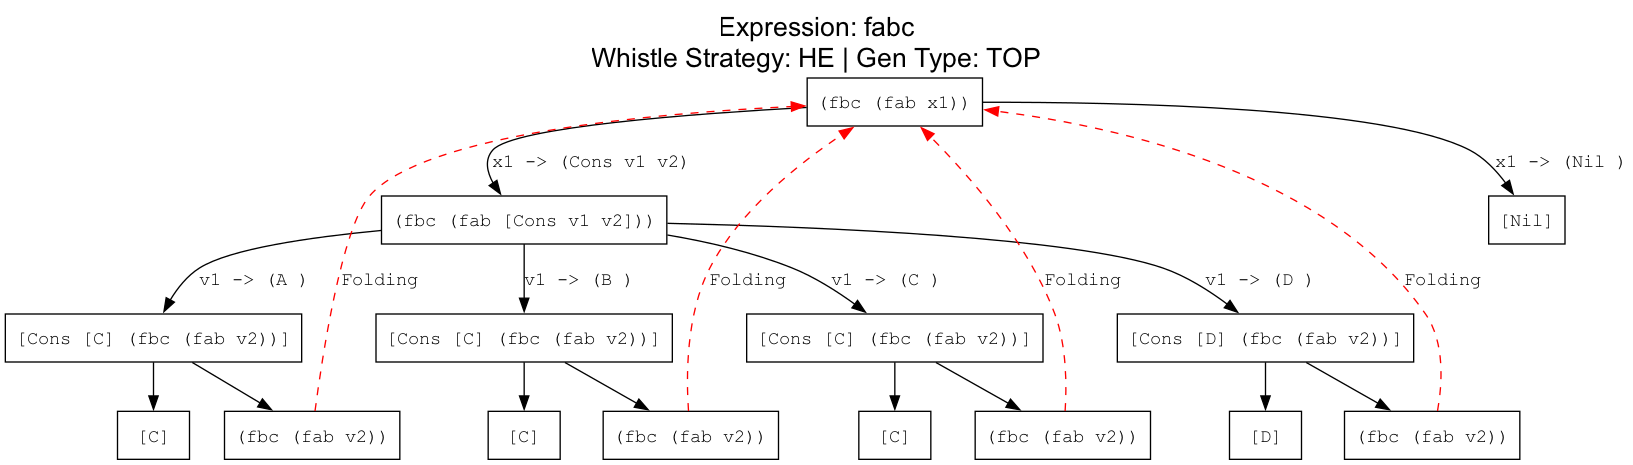
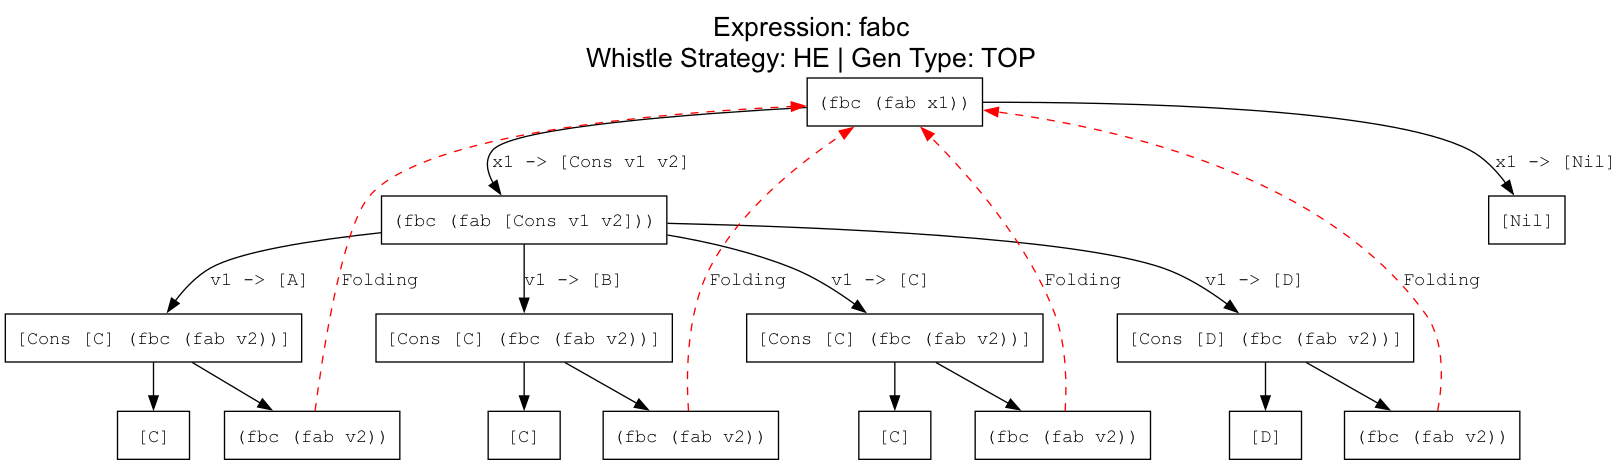
Квадратные скобки для конструкторов в паттернах

diff --git a/sll/ast_nodes.py b/sll/ast_nodes.py
@@ -146,6 +146,9 @@ class Pattern:
 
     def __str__(self):
         params_str = " ".join(str(p) for p in self.params)
+        # Конструктор в паттерне (имя с заглавной буквы) — квадратные скобки
+        if self.name and self.name[0].isupper():
+            return f"[{self.name} {params_str}]" if params_str else f"[{self.name}]"
         return f"({self.name} {params_str})"
 
 
